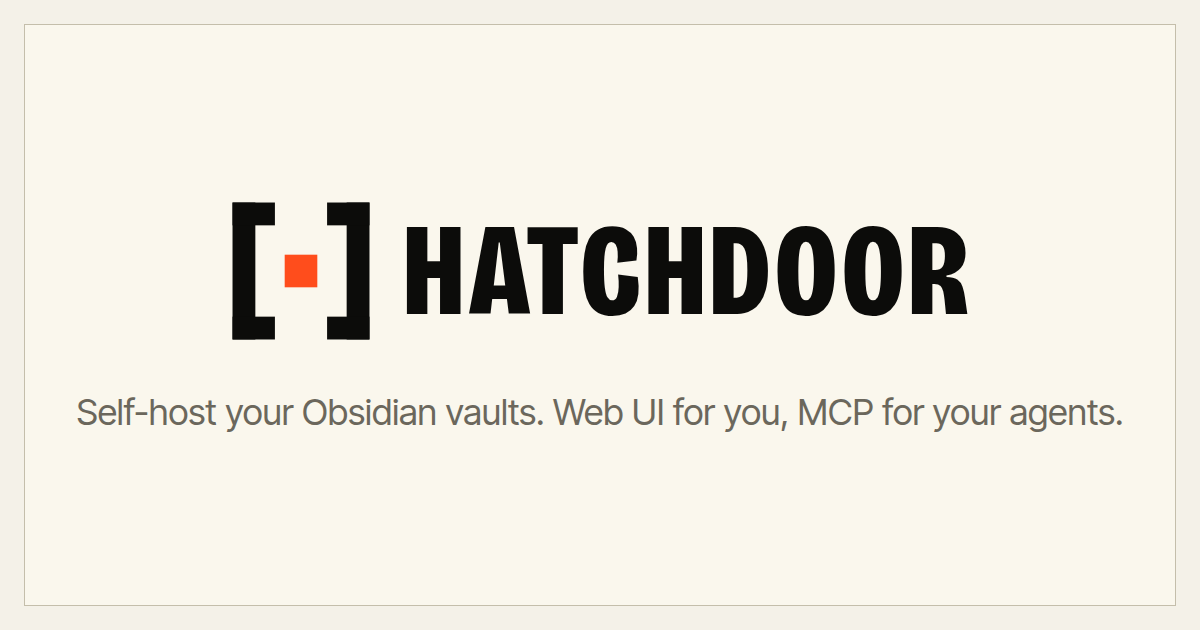
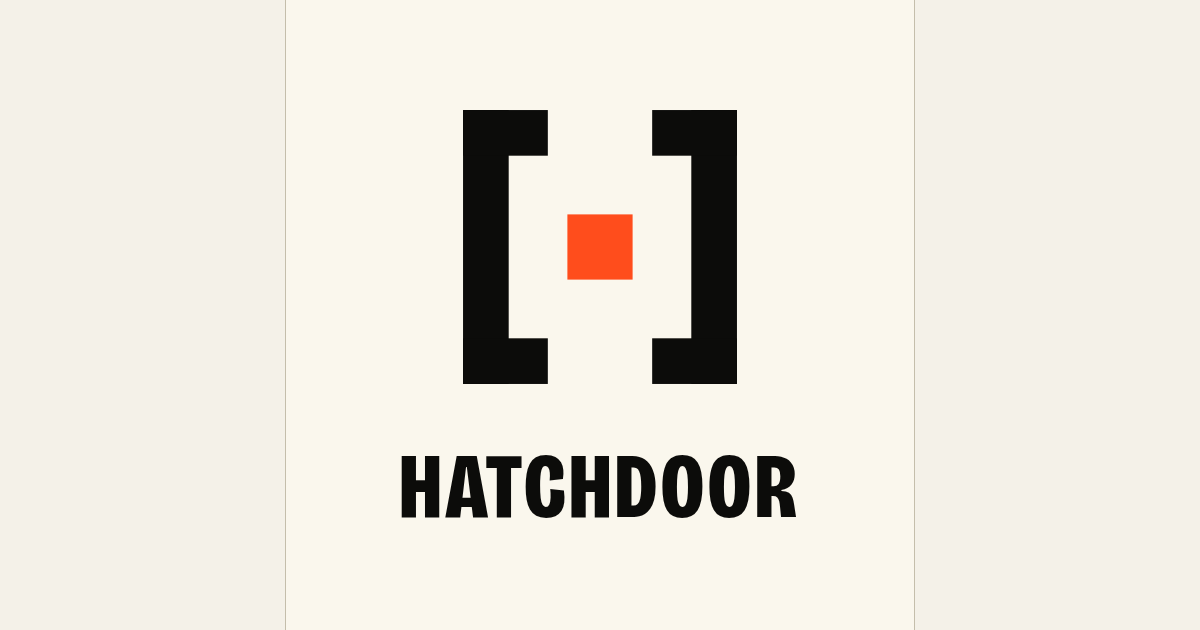
feat: ship the picked link preview picture
The maintainer picked the square-safe variant on #512: the mark and the
wordmark inside the middle 630 by 630 square, which survives a chat
app's thumbnail crop. The source keeps that layout only, and the
variants posted for the pick are removed.

Closes #512

Claude-Session: https://claude.ai/code/session_0164JGPDMbcS22dXYHjDSkE5

Changed region(s): [[0.0617, 0.1508, 0.925, 0.6937], [0.3083, 0.7238, 0.6783, 0.8444], [0.185, 0.3016, 0.3083, 0.5429]]

diff --git a/assets/link-preview/link-preview.html b/assets/link-preview/link-preview.html
@@ -2,9 +2,11 @@
 <!--
   Source of the link preview picture (ADR-47), frontend/public/link-preview.png.
 
-  It draws the mark and the wordmark on the app's paper background with the
-  app's own tokens and typefaces, so a token change shows up here on the next
-  export. Export with a Chrome-family browser from the repository root:
+  It draws the mark and the wordmark with the app's own tokens and typefaces,
+  so a token change shows up here on the next export. Everything sits inside
+  the middle 630 by 630 square, which is what a chat app keeps when it crops
+  the picture to a small thumbnail. Export with a Chrome-family browser from
+  the repository root:
 
     google-chrome --headless=new --hide-scrollbars --force-device-scale-factor=1 \
       --window-size=1200,630 --screenshot=frontend/public/link-preview.png \
@@ -27,173 +29,56 @@
         overflow: hidden;
       }
       body {
-        background: var(--paper);
+        background: var(--bg);
+        display: flex;
+        justify-content: center;
       }
-      .card {
+      .square {
         box-sizing: border-box;
-        width: 1200px;
+        width: 630px;
         height: 630px;
-        display: none;
-      }
-      /* The mark is drawn once and reused, and a reused shape only sees
-         inherited values, so its two colours travel as custom properties. */
-      .mark {
-        --mark-bracket: var(--ink);
-        --mark-accent: var(--hot);
-      }
-      .word {
-        font-family: var(--font-display);
-        font-weight: 800;
-        font-stretch: 78%;
-        letter-spacing: 0.04em;
-        color: var(--ink);
-        line-height: 1;
-      }
-      .line {
-        font-family: var(--font-sans);
-        color: var(--muted);
-        margin: 0;
-      }
-
-      /* A: the lockup centred, tagline beneath, inside a ruled frame. */
-      body.a .card.a {
+        background: var(--paper);
+        border-left: 1px solid var(--rule-strong);
+        border-right: 1px solid var(--rule-strong);
         display: flex;
         flex-direction: column;
         align-items: center;
         justify-content: center;
         gap: 44px;
-        border: 24px solid var(--bg);
-        outline: 1px solid var(--rule-strong);
-        outline-offset: -25px;
       }
-      .card.a .lockup {
-        display: flex;
-        align-items: center;
-        gap: 28px;
+      .mark {
+        width: 300px;
+        height: 300px;
       }
-      .card.a .mark {
-        width: 150px;
-        height: 150px;
+      .mark .bracket {
+        fill: var(--ink);
       }
-      .card.a .word {
-        font-size: 132px;
+      .mark .accent {
+        fill: var(--hot);
       }
-      .card.a .line {
-        font-size: 36px;
-      }
-
-      /* B: small lockup on top, the description set large as a headline. */
-      body.b .card.b {
-        display: flex;
-        flex-direction: column;
-        justify-content: space-between;
-        padding: 72px 80px;
-        border-bottom: 16px solid var(--hot);
-      }
-      .card.b .lockup {
-        display: flex;
-        align-items: center;
-        gap: 16px;
-      }
-      .card.b .mark {
-        width: 72px;
-        height: 72px;
-      }
-      .card.b .word {
-        font-size: 60px;
-      }
-      .card.b h1 {
+      .word {
         font-family: var(--font-display);
         font-weight: 800;
         font-stretch: 78%;
-        font-size: 104px;
-        line-height: 1.02;
-        letter-spacing: -0.01em;
+        font-size: 92px;
+        letter-spacing: 0.04em;
+        line-height: 1;
         color: var(--ink);
-        margin: 0 0 28px;
-      }
-      .card.b .line {
-        font-size: 36px;
-      }
-
-      /* C: the mark large on an ink panel, wordmark and tagline beside it. */
-      body.c .card.c {
-        display: grid;
-        grid-template-columns: 470px 1fr;
-      }
-      .card.c .panel {
-        background: var(--ink);
-        display: flex;
-        align-items: center;
-        justify-content: center;
-      }
-      .card.c .panel .mark {
-        width: 330px;
-        height: 330px;
-      }
-      .card.c .panel .mark {
-        --mark-bracket: var(--paper);
-      }
-      .card.c .text {
-        display: flex;
-        flex-direction: column;
-        justify-content: center;
-        gap: 32px;
-        padding: 0 64px;
-      }
-      .card.c .word {
-        font-size: 104px;
-      }
-      .card.c .line {
-        font-size: 32px;
-        line-height: 1.25;
       }
     </style>
   </head>
   <body>
-    <svg width="0" height="0" style="position: absolute" aria-hidden="true">
-      <symbol id="mark" viewBox="7 7 46 46">
-        <rect style="fill: var(--mark-bracket)" x="9" y="9" width="7" height="42" />
-        <rect style="fill: var(--mark-bracket)" x="9" y="9" width="13" height="7" />
-        <rect style="fill: var(--mark-bracket)" x="9" y="44" width="13" height="7" />
-        <rect style="fill: var(--mark-bracket)" x="44" y="9" width="7" height="42" />
-        <rect style="fill: var(--mark-bracket)" x="38" y="9" width="13" height="7" />
-        <rect style="fill: var(--mark-bracket)" x="38" y="44" width="13" height="7" />
-        <rect style="fill: var(--mark-accent)" x="25" y="25" width="10" height="10" />
-      </symbol>
-    </svg>
-
-    <div class="card a">
-      <div class="lockup">
-        <svg class="mark"><use href="#mark" /></svg>
-        <span class="word">HATCHDOOR</span>
-      </div>
-      <p class="line">Self-host your Obsidian vaults. Web UI for you, MCP for your agents.</p>
+    <div class="square">
+      <svg class="mark" viewBox="7 7 46 46" aria-hidden="true">
+        <rect class="bracket" x="9" y="9" width="7" height="42" />
+        <rect class="bracket" x="9" y="9" width="13" height="7" />
+        <rect class="bracket" x="9" y="44" width="13" height="7" />
+        <rect class="bracket" x="44" y="9" width="7" height="42" />
+        <rect class="bracket" x="38" y="9" width="13" height="7" />
+        <rect class="bracket" x="38" y="44" width="13" height="7" />
+        <rect class="accent" x="25" y="25" width="10" height="10" />
+      </svg>
+      <span class="word">HATCHDOOR</span>
     </div>
-
-    <div class="card b">
-      <div class="lockup">
-        <svg class="mark"><use href="#mark" /></svg>
-        <span class="word">HATCHDOOR</span>
-      </div>
-      <div>
-        <h1>Self-host your<br />Obsidian vaults.</h1>
-        <p class="line">A web UI for you, MCP for your AI agents.</p>
-      </div>
-    </div>
-
-    <div class="card c">
-      <div class="panel">
-        <svg class="mark"><use href="#mark" /></svg>
-      </div>
-      <div class="text">
-        <span class="word">HATCHDOOR</span>
-        <p class="line">Self-host your Obsidian vaults.<br />A web UI for you, MCP for your AI agents.</p>
-      </div>
-    </div>
-
-    <script>
-      document.body.className = location.hash.slice(1) || "a";
-    </script>
   </body>
 </html>

diff --git a/src/handlers/link_preview.rs b/src/handlers/link_preview.rs
@@ -11,7 +11,7 @@ use crate::vault::Note;
 const PICTURE_PATH: &str = "/link-preview.png";
 const PICTURE_WIDTH: u32 = 1200;
 const PICTURE_HEIGHT: u32 = 630;
-const PICTURE_ALT: &str = "Hatchdoor: self-host your Obsidian vaults";
+const PICTURE_ALT: &str = "The Hatchdoor mark and wordmark";
 
 const SITE_NAME: &str = "Hatchdoor";
 const GENERAL_DESCRIPTION: &str = "Self-host your Obsidian vaults: a web UI for you, MCP for your AI agents. No Obsidian, no plugins required.";
